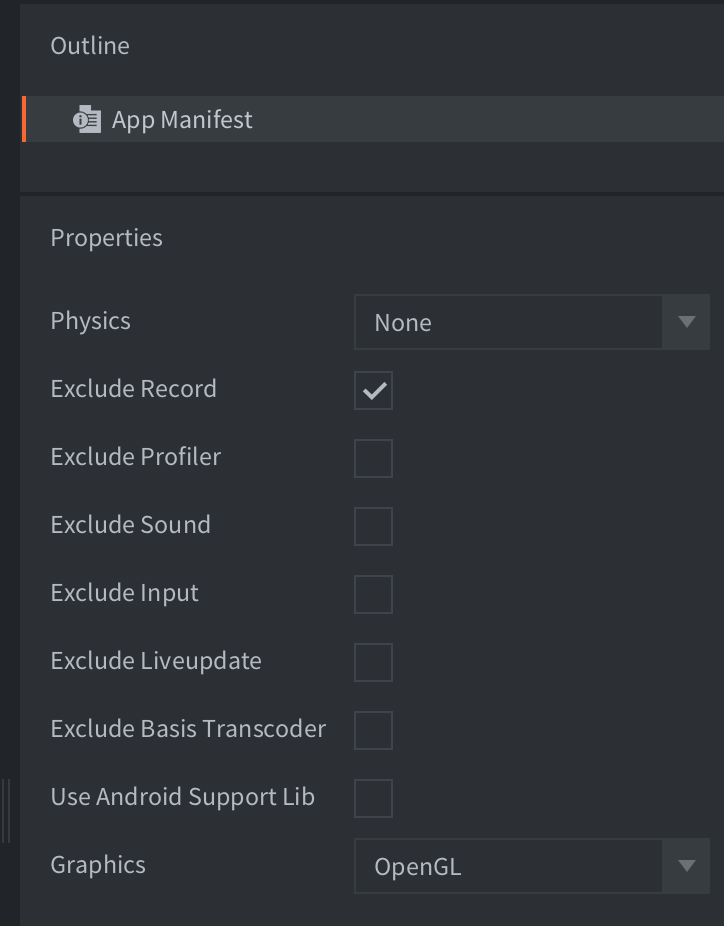
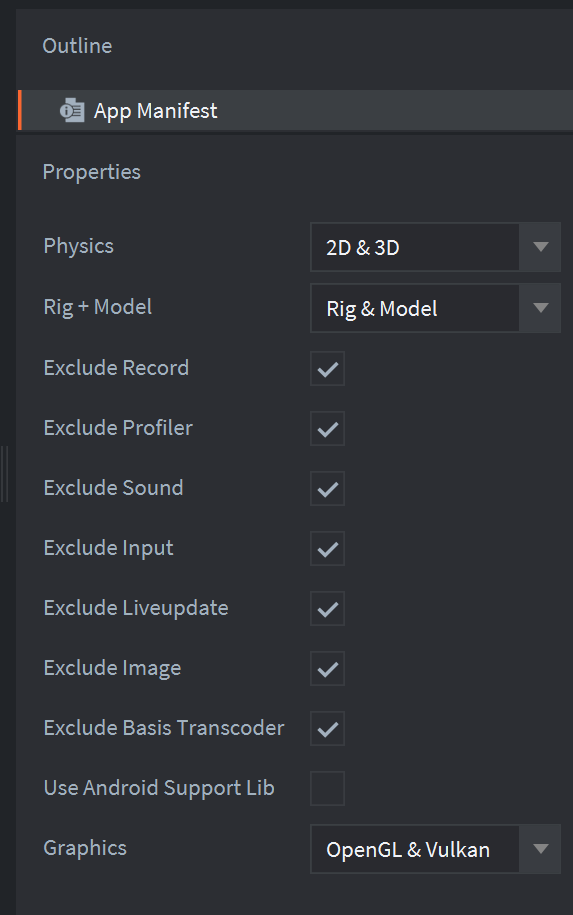
App manifest Manual Update (#471)
App manifest manual is missing "  Rig + Model  " information.

- Added new information

- Also replace old image of manifest with new image showing new manifest property options.

diff --git a/docs/en/manuals/app-manifest.md b/docs/en/manuals/app-manifest.md
@@ -15,6 +15,9 @@ The application manifest is used to exclude or control which features to include
 
 Control which physics engine to use, or select None to exclude physics completely.
 
+## Rig + Model
+
+Control rig and model functionality, or select None to exclude model and rig completely. (See [`Model`](https://defold.com/manuals/model/#model-component) documentation).
 
 ## Exclude Record
 
